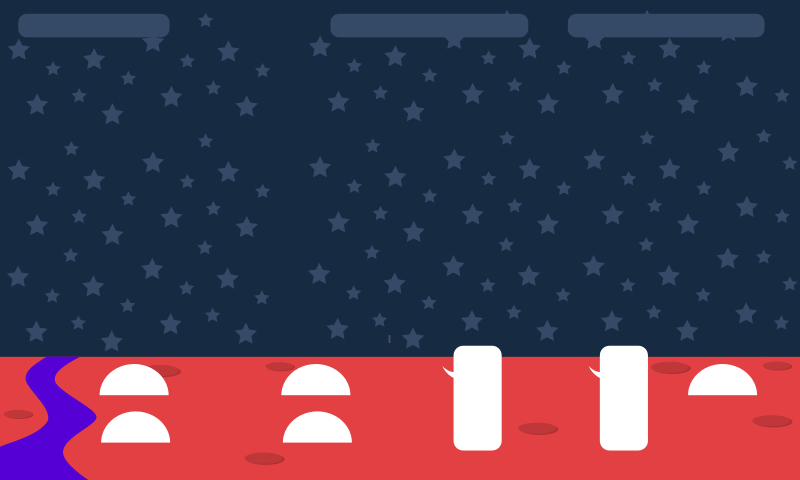
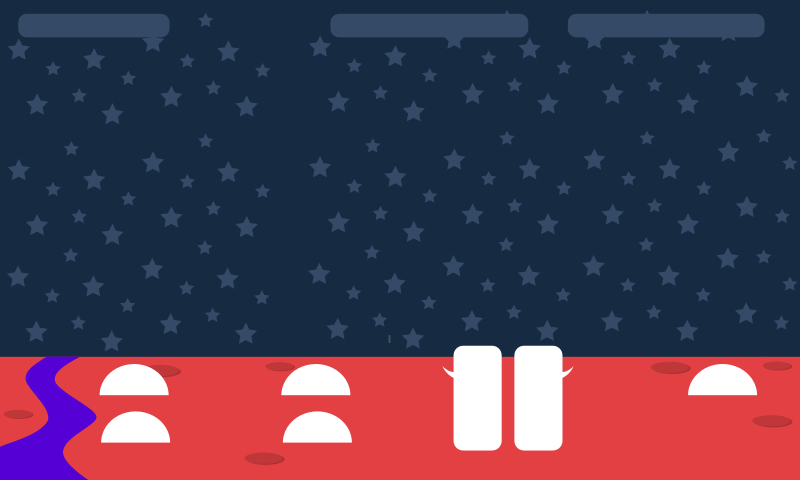
added fish

Changed region(s): [[0.625, 0.7188, 0.8125, 0.9375]]

diff --git a/core/src/com/strzal/hungry/screens/GameScreen.java b/core/src/com/strzal/hungry/screens/GameScreen.java
@@ -87,12 +87,12 @@ public class GameScreen extends BasicMenuScreen {
         updateWater();
         updateChips();
         updateBools();
+        updateFish();
 
     }
 
     private void updateWater() {
 
-        //still room for more water
         if(gameController.getWaterEntityList().size() < gameController.getWater()){
             for (int i = 1; i <= gameController.getWater() - gameController.getWaterEntityList().size(); i++) {
                 if(gameController.isWaterPositionOneEmpty()){
@@ -121,7 +121,6 @@ public class GameScreen extends BasicMenuScreen {
 
     private void updateChips() {
 
-        //still room for more water
         if(gameController.getChipEntityList().size() < gameController.getChips()){
             for (int i = 1; i <= gameController.getChips() - gameController.getChipEntityList().size(); i++) {
                 if(gameController.isChipPositionOneEmpty()){
@@ -140,9 +139,20 @@ public class GameScreen extends BasicMenuScreen {
                 GamePositions.CHIPS_X_POSITION, yPosition, arrayPosition);
     }
 
+    private void updateFish() {
+        //verificar se ja foi criado o peixe
+        if( gameController.getCurrentFishEntity() == null && gameController.getFish() == 1){
+            createFish();
+        }
+    }
+
+    private void createFish() {
+        new FishEntity(game, gameController, stage,
+                GamePositions.FISH_X_POSITION, GamePositions.FISH_Y_POSITION);
+    }
+
     private void updateBools() {
 
-        //still room for more water
         if(gameController.getBoolEntityList().size() < gameController.getBools()){
             for (int i = 1; i <= gameController.getBools() - gameController.getBoolEntityList().size(); i++) {
                 if(gameController.isBoolPositionOneEmpty()){

diff --git a/core/src/com/strzal/hungry/entity/FishEntity.java b/core/src/com/strzal/hungry/entity/FishEntity.java
@@ -1,0 +1,46 @@
+package com.strzal.hungry.entity;
+
+import com.badlogic.gdx.graphics.Texture;
+import com.badlogic.gdx.scenes.scene2d.InputEvent;
+import com.badlogic.gdx.scenes.scene2d.Stage;
+import com.badlogic.gdx.scenes.scene2d.ui.ImageButton;
+import com.badlogic.gdx.scenes.scene2d.utils.ClickListener;
+import com.badlogic.gdx.scenes.scene2d.utils.TextureRegionDrawable;
+import com.strzal.gdx.BasicGame;
+import com.strzal.hungry.constants.ImagesPaths;
+import com.strzal.hungry.controller.GameController;
+
+public class FishEntity extends BasicButton {
+
+    private ImageButton fishButton;
+
+    public FishEntity(BasicGame game, GameController gameController, Stage stage, int xPosition, int yPosition) {
+        super(game, gameController, stage, xPosition, yPosition);
+
+        gameController.setCurrentFishEntity(this);
+
+        fishButton = new ImageButton(
+                new TextureRegionDrawable((Texture) assetManager.get(ImagesPaths.FISH)),
+                new TextureRegionDrawable((Texture) assetManager.get(ImagesPaths.FISH_PRESSED))
+        );
+
+
+        fishButton.setPosition(xPosition, yPosition);
+        fishButton.addListener(new ClickListener(){
+            @Override
+            public void clicked(InputEvent event, float x, float y) {
+                super.clicked(event, x, y);
+                buttonClicked();
+            }
+        });
+
+        stage.addActor(fishButton);
+    }
+
+    private void buttonClicked() {
+        if(gameController.useFish()){
+            gameController.setCurrentFishEntity(null);
+            fishButton.remove();
+        };
+    }
+}

diff --git a/core/src/com/strzal/hungry/controller/GameController.java b/core/src/com/strzal/hungry/controller/GameController.java
@@ -39,7 +39,8 @@ public class GameController {
 
     //fish
     private int fish = 0;
-    //rivate List<FishEntity> fishEntityList;
+    @Setter
+    private FishEntity currentFishEntity;
 
 
     //chips
@@ -95,6 +96,12 @@ public class GameController {
             water--;
             return true;
         }
+        return false;
+    }
+
+    public boolean useFish() {
+
+        //TODO: copy from useChips
         return false;
     }
 

diff --git a/core/src/com/strzal/hungry/config/GamePositions.java b/core/src/com/strzal/hungry/config/GamePositions.java
@@ -28,6 +28,9 @@ public class GamePositions {
     public static final int BOOL_Y_POSITION = 90;
     public static final int BOOL_Y_SECOND_POSITION = CHIPS_Y_POSITION - 50;
 
+    public static final int FISH_X_POSITION = 710;
+    public static final int FISH_Y_POSITION = 90;
+
 
     private GamePositions(){}
 }
